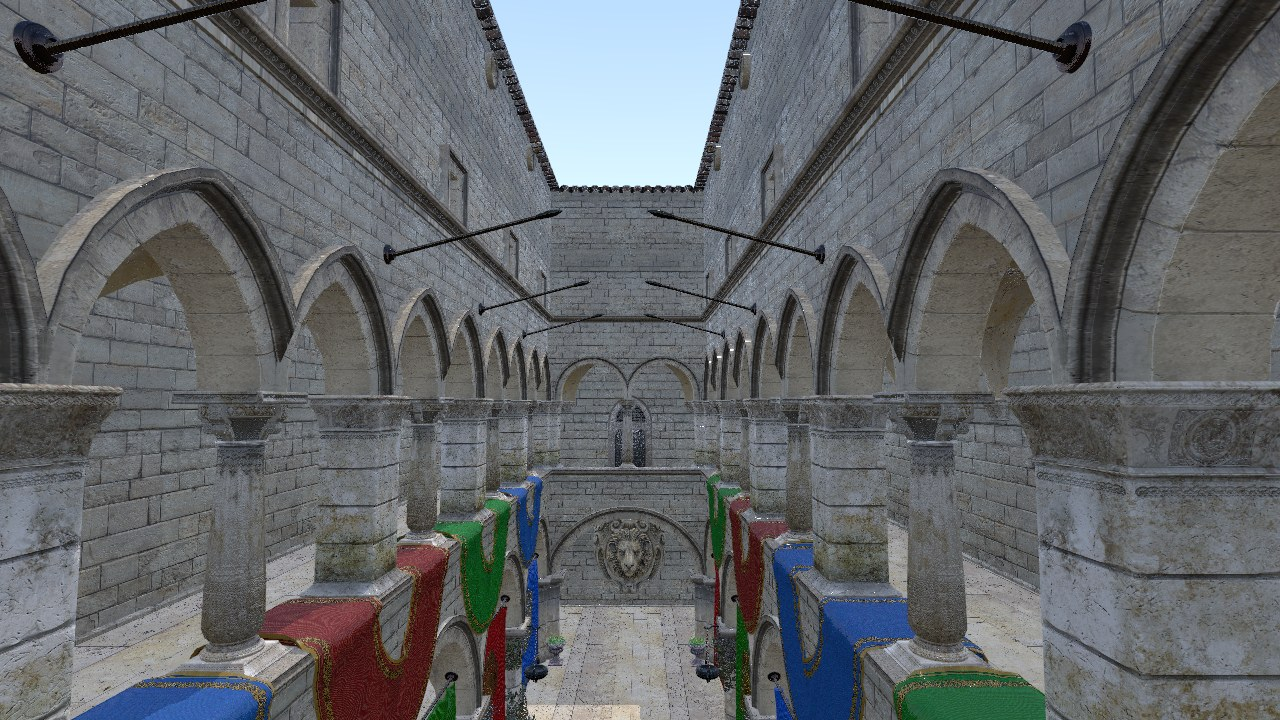
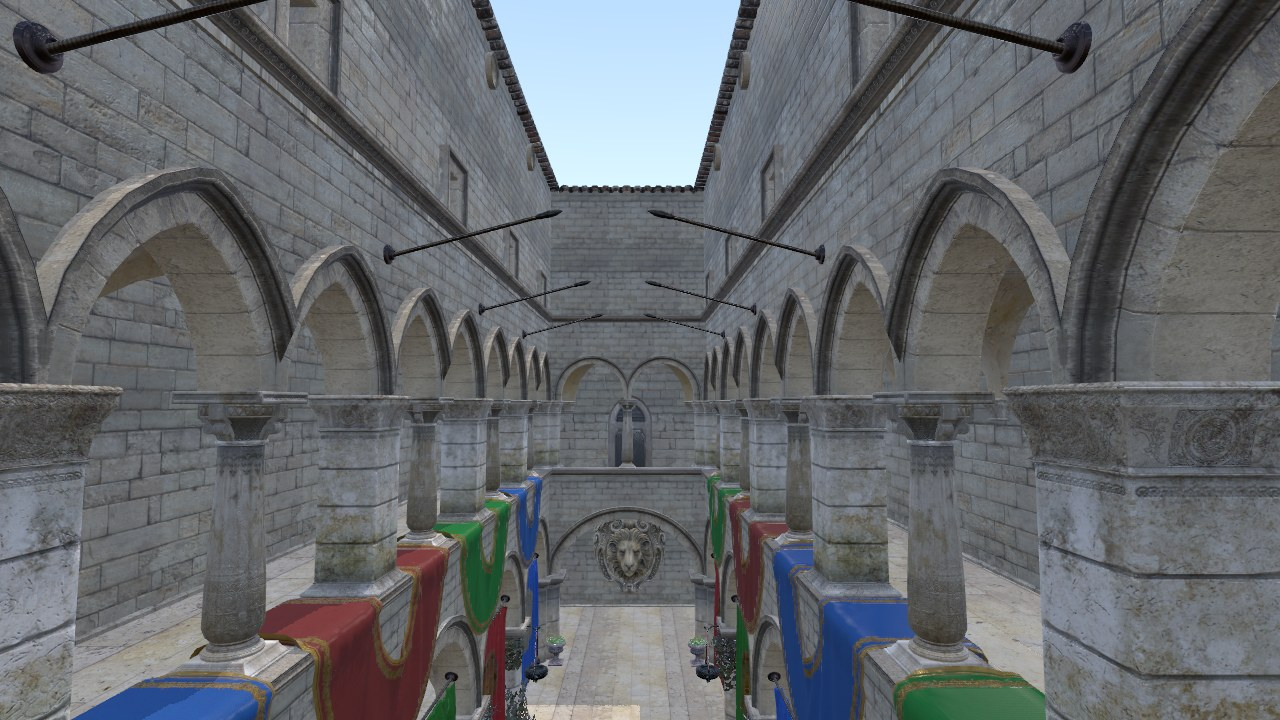
Give the textures a mip chain, and let the sampler use it
The sampler said mipmapMode NEAREST with a comment reading "no mips to
choose from", and it was right: every loaded texture had one level. Sponza's
1024 textures were sampled at level 0 however small they were on screen.

Vulkan has no glGenerateMipmap, so the chain is built on upload: level i is
a linear blit of level i - 1. Levels are transitioned one at a time, because
a single transition of the whole image names every level and then nothing
stands between it and the blit that writes one -- the synchronization
validation layer reported exactly that hazard.

Anisotropy comes with it, since it has nothing to choose from without a
chain.

Measured on an RX 6800S at 1280x720, faster as well as steadier:

  forward    scene    3.431 -> 2.077 ms    total 6.639 -> 5.328
  deferred   geometry 2.569 -> 0.849 ms    total 6.373 -> 4.964

diff --git a/Source/Programs/sandbox/Vulkan/Texture.cpp b/Source/Programs/sandbox/Vulkan/Texture.cpp
@@ -64,14 +64,43 @@ bool CreateTextureFromPixels(const VulkanDevice& dev, const Commands& commands,
     }
     std::memcpy(staging.mapped, pixels, size);
 
+    // What a mip chain needs of the caller, asked before anything is created. Both are
+    // the caller's declaration rather than something to work out here: mipLevels says
+    // there is a chain, and the usage says the image may be read from while it is built.
+    if (desc.mipLevels > 1) {
+        if ((desc.usage & VK_IMAGE_USAGE_TRANSFER_SRC_BIT) == 0) {
+            LOG("[vk] %u mip levels asked for without TRANSFER_SRC to build them with\n", desc.mipLevels);
+            return false;
+        }
+
+        // Each level is a filtered copy of the one above it, so the format has to
+        // support being filtered. A format that cannot is refused rather than silently
+        // given a nearest-filtered chain, which would look like a bad texture.
+        VkFormatProperties props{};
+        dev.inst->table.vkGetPhysicalDeviceFormatProperties(dev.gpu, desc.format, &props);
+        if ((props.optimalTilingFeatures
+                 & VK_FORMAT_FEATURE_SAMPLED_IMAGE_FILTER_LINEAR_BIT) == 0) {
+            LOG("[vk] format %d cannot be linearly filtered, so no mip chain\n",
+                static_cast<int>(desc.format));
+            return false;
+        }
+    }
+
     if (!CreateTexture(dev, desc, out)) { return false; }
 
     VkCommandBuffer cmd = BeginOneShot(dev, commands);
     if (cmd == VK_NULL_HANDLE) { return false; }
 
-    // srcStage is TOP_OF_PIPE because there is nothing to wait for: this image was
-    // just created and nobody has touched it.
-    RecordLayoutTransition(dev.table, cmd, out->image.handle, WholeImage(VK_IMAGE_ASPECT_COLOR_BIT),
+    // Level 0 only. Every level below is moved to a writable layout right before it is
+    // written, which is what keeps two writes to the same level ordered -- a single
+    // transition of the whole image at the start names every level and then nothing
+    // stands between it and the blit that writes level i. The synchronization
+    // validation layer reports that as a write-after-write hazard, correctly.
+    //
+    // srcStage is TOP_OF_PIPE because there is nothing to wait for: this image was just
+    // created and nobody has touched it.
+    RecordLayoutTransition(dev.table, cmd, out->image.handle,
+                           OneLayer(VK_IMAGE_ASPECT_COLOR_BIT, 0, 0),
                            VK_PIPELINE_STAGE_2_TOP_OF_PIPE_BIT, 0,
                            VK_PIPELINE_STAGE_2_COPY_BIT,
                            VK_ACCESS_2_TRANSFER_WRITE_BIT,
@@ -87,10 +116,74 @@ bool CreateTextureFromPixels(const VulkanDevice& dev, const Commands& commands,
     dev.table.vkCmdCopyBufferToImage(cmd, staging.handle, out->image.handle,
                                      VK_IMAGE_LAYOUT_TRANSFER_DST_OPTIMAL, 1, &region);
 
+    // The chain. Vulkan has no glGenerateMipmap: level i is a filtered copy of level
+    // i - 1, so each step moves the source to a readable layout, opens the destination,
+    // and blits between them.
+    int32_t width = static_cast<int32_t>(desc.extent.width);
+    int32_t height = static_cast<int32_t>(desc.extent.height);
+    for (uint32_t level = 1; level < desc.mipLevels; ++level) {
+        // The level just written becomes the source. Its write was the buffer copy for
+        // level 0 and a blit for every level after that.
+        RecordLayoutTransition(dev.table, cmd, out->image.handle,
+                               OneLayer(VK_IMAGE_ASPECT_COLOR_BIT, 0, level - 1),
+                               level == 1 ? VK_PIPELINE_STAGE_2_COPY_BIT
+                                          : VK_PIPELINE_STAGE_2_BLIT_BIT,
+                               VK_ACCESS_2_TRANSFER_WRITE_BIT,
+                               VK_PIPELINE_STAGE_2_BLIT_BIT,
+                               VK_ACCESS_2_TRANSFER_READ_BIT,
+                               VK_IMAGE_LAYOUT_TRANSFER_DST_OPTIMAL,
+                               VK_IMAGE_LAYOUT_TRANSFER_SRC_OPTIMAL);
+
+        // And this level becomes the destination. From UNDEFINED because nothing has
+        // ever been in it, which is also why there is no earlier write to make visible.
+        RecordLayoutTransition(dev.table, cmd, out->image.handle,
+                               OneLayer(VK_IMAGE_ASPECT_COLOR_BIT, 0, level),
+                               VK_PIPELINE_STAGE_2_BLIT_BIT, 0,
+                               VK_PIPELINE_STAGE_2_BLIT_BIT,
+                               VK_ACCESS_2_TRANSFER_WRITE_BIT,
+                               VK_IMAGE_LAYOUT_UNDEFINED,
+                               VK_IMAGE_LAYOUT_TRANSFER_DST_OPTIMAL);
+
+        // Halved, and never below one: a 1024 x 16 image reaches 1 in one direction
+        // long before the other, and the levels after that are one texel tall.
+        const int32_t nextWidth = width > 1 ? width / 2 : 1;
+        const int32_t nextHeight = height > 1 ? height / 2 : 1;
+
+        VkImageBlit blit{};
+        blit.srcSubresource = {VK_IMAGE_ASPECT_COLOR_BIT, level - 1, 0, 1};
+        blit.srcOffsets[1] = VkOffset3D{width, height, 1};
+        blit.dstSubresource = {VK_IMAGE_ASPECT_COLOR_BIT, level, 0, 1};
+        blit.dstOffsets[1] = VkOffset3D{nextWidth, nextHeight, 1};
+        dev.table.vkCmdBlitImage(cmd, out->image.handle,
+                                 VK_IMAGE_LAYOUT_TRANSFER_SRC_OPTIMAL,
+                                 out->image.handle,
+                                 VK_IMAGE_LAYOUT_TRANSFER_DST_OPTIMAL,
+                                 1, &blit, VK_FILTER_LINEAR);
+        width = nextWidth;
+        height = nextHeight;
+    }
+
+    // Two transitions where there is a chain, because the levels are not in the same
+    // layout: every level but the last was read from to make the next, and the last was
+    // only written.
+    if (desc.mipLevels > 1) {
+        const VkImageSubresourceRange read{VK_IMAGE_ASPECT_COLOR_BIT, 0,
+                                           desc.mipLevels - 1, 0, 1};
+        RecordLayoutTransition(dev.table, cmd, out->image.handle, read,
+                               VK_PIPELINE_STAGE_2_BLIT_BIT,
+                               VK_ACCESS_2_TRANSFER_READ_BIT,
+                               VK_PIPELINE_STAGE_2_FRAGMENT_SHADER_BIT,
+                               VK_ACCESS_2_SHADER_SAMPLED_READ_BIT,
+                               VK_IMAGE_LAYOUT_TRANSFER_SRC_OPTIMAL,
+                               VK_IMAGE_LAYOUT_SHADER_READ_ONLY_OPTIMAL);
+    }
+
     // dstStage is FRAGMENT_SHADER because that is the only place we read it. A vertex
     // shader sampling textures would widen this.
-    RecordLayoutTransition(dev.table, cmd, out->image.handle, WholeImage(VK_IMAGE_ASPECT_COLOR_BIT),
-                           VK_PIPELINE_STAGE_2_COPY_BIT,
+    RecordLayoutTransition(dev.table, cmd, out->image.handle,
+                           OneLayer(VK_IMAGE_ASPECT_COLOR_BIT, 0, desc.mipLevels - 1),
+                           desc.mipLevels > 1 ? VK_PIPELINE_STAGE_2_BLIT_BIT
+                                              : VK_PIPELINE_STAGE_2_COPY_BIT,
                            VK_ACCESS_2_TRANSFER_WRITE_BIT,
                            VK_PIPELINE_STAGE_2_FRAGMENT_SHADER_BIT,
                            VK_ACCESS_2_SHADER_SAMPLED_READ_BIT,

diff --git a/Source/Programs/sandbox/Vulkan/Descriptors.cpp b/Source/Programs/sandbox/Vulkan/Descriptors.cpp
@@ -74,7 +74,24 @@ bool CreateDescriptors(const VulkanDevice& dev,
     samplerInfo.addressModeU = VK_SAMPLER_ADDRESS_MODE_REPEAT;
     samplerInfo.addressModeV = VK_SAMPLER_ADDRESS_MODE_REPEAT;
     samplerInfo.addressModeW = VK_SAMPLER_ADDRESS_MODE_REPEAT;
-    samplerInfo.mipmapMode = VK_SAMPLER_MIPMAP_MODE_NEAREST;   // no mips to choose from
+    // Between levels as well as within one. NEAREST here snaps from one level to the
+    // next, and the seam moves across the floor as the camera does.
+    samplerInfo.mipmapMode = VK_SAMPLER_MIPMAP_MODE_LINEAR;
+
+    // Every level a texture has. 0 would clamp sampling to level 0 and undo the chain.
+    samplerInfo.maxLod = VK_LOD_CLAMP_NONE;
+
+    // How many samples along the long axis of the footprint. A level is chosen from the
+    // larger of the two screen derivatives, so a surface seen at a grazing angle gets a
+    // level that is right for the long direction and too blurry for the short one;
+    // taking several samples along that axis is what recovers it.
+    //
+    // The device's own ceiling, not a number we picked -- 16 is what desktop hardware
+    // reports and asking for more is a validation error.
+    VkPhysicalDeviceProperties props{};
+    dev.inst->table.vkGetPhysicalDeviceProperties(dev.gpu, &props);
+    samplerInfo.anisotropyEnable = VK_TRUE;
+    samplerInfo.maxAnisotropy = props.limits.maxSamplerAnisotropy;
     if (dev.table.vkCreateSampler(dev.handle, &samplerInfo, nullptr, &out->sampler)
             != VK_SUCCESS) {
         LOG("[vk] vkCreateSampler failed\n");

diff --git a/Source/Programs/sandbox/main.cpp b/Source/Programs/sandbox/main.cpp
@@ -122,9 +122,14 @@ static bool LoadTextureFile(const VulkanDevice& dev, const Commands& commands,
         return false;
     }
 
-    const TextureDesc desc{{static_cast<uint32_t>(width), static_cast<uint32_t>(height)},
-                           format, VK_SAMPLE_COUNT_1_BIT,
-                           VK_IMAGE_USAGE_TRANSFER_DST_BIT | VK_IMAGE_USAGE_SAMPLED_BIT};
+    // A full chain, and TRANSFER_SRC because building it reads level i to write level
+    // i + 1. Declared here rather than worked out inside the upload: how many levels an
+    // image has is a property of the image, and a 1 x 1 stand-in asks for one.
+    TextureDesc desc{{static_cast<uint32_t>(width), static_cast<uint32_t>(height)},
+                     format, VK_SAMPLE_COUNT_1_BIT,
+                     VK_IMAGE_USAGE_TRANSFER_DST_BIT | VK_IMAGE_USAGE_TRANSFER_SRC_BIT
+                         | VK_IMAGE_USAGE_SAMPLED_BIT};
+    desc.mipLevels = MipLevelsFor(desc.extent);
     const size_t byteCount = static_cast<size_t>(width) * static_cast<size_t>(height) * 4;
     const bool uploaded = CreateTextureFromPixels(dev, commands, desc, pixels,
                                                   byteCount, out);

diff --git a/Source/Programs/sandbox/Vulkan/Device.cpp b/Source/Programs/sandbox/Vulkan/Device.cpp
@@ -109,11 +109,15 @@ PhysicalDeviceSelection PickPhysicalDevice(const VulkanInstance& inst,
                 && features2.features.fillModeNonSolid != VK_TRUE) {
             continue;
         }
+        if (required10.samplerAnisotropy == VK_TRUE
+                && features2.features.samplerAnisotropy != VK_TRUE) {
+            continue;
+        }
         if (features13.dynamicRendering != VK_TRUE || features13.synchronization2 != VK_TRUE) {
             continue;
         }
-        // features2.features goes unread: no core 1.0 feature is required. Adding one
-        // means editing here and Core.h both.
+        // Every core 1.0 feature required is checked above by name. Adding one means
+        // editing here and Core.h both.
 
         // (c) the swapchain extension
         uint32_t extCount = 0;

diff --git a/Source/Programs/sandbox/Vulkan/Image.h b/Source/Programs/sandbox/Vulkan/Image.h
@@ -140,6 +140,18 @@ struct TextureDesc {
     uint32_t arrayLayers = 1;
 };
 
+// Output: how many mip levels a texture of this size can have
+//
+// Halving the larger side until it reaches 1, counting the original. A 1024 x 1024
+// image has 11 levels; a 1 x 1 image has one, which is why the stand-in textures need no
+// special case.
+inline uint32_t MipLevelsFor(VkExtent2D extent) noexcept {
+    uint32_t side = extent.width > extent.height ? extent.width : extent.height;
+    uint32_t levels = 1;
+    while (side > 1) { side /= 2; ++levels; }
+    return levels;
+}
+
 // Output: how many array layers this texture has
 //
 // Six for a cube because that is what a cube is, one for a plain 2D, and whatever was

diff --git a/Source/Programs/sandbox/Vulkan/Core.h b/Source/Programs/sandbox/Vulkan/Core.h
@@ -63,5 +63,11 @@ inline VkPhysicalDeviceVulkan13Features RequiredFeatures13() noexcept {
 inline VkPhysicalDeviceFeatures RequiredFeatures10() noexcept {
     VkPhysicalDeviceFeatures features{};
     features.fillModeNonSolid = VK_TRUE;   // POLYGON_MODE_LINE
+
+    // Anisotropic filtering. A mip level is chosen from the larger of the two screen
+    // derivatives, which over-blurs a surface seen at a grazing angle -- the footprint
+    // is long in one direction and short in the other, and one level cannot be right
+    // for both. Anisotropy takes several samples along the long axis instead.
+    features.samplerAnisotropy = VK_TRUE;
     return features;
 }

diff --git a/README.md b/README.md
@@ -137,6 +137,21 @@ uniform contents, dynamic state commands, and the one switch that selects a diff
 compiled pipeline. The right-hand window reads back the descriptor pool, the reflected
 shader interface and per-frame draw statistics.
 
+- **Mip chain and anisotropy.** Every loaded texture is built with a full chain, blit by
+  blit, and the sampler filters between levels with anisotropy at the device's limit.
+  Sampling a minified 1024² texture at level 0 speckles the distant stonework and misses
+  the texture cache on nearly every tap, so this is faster as well as steadier:
+
+  | | before | after |
+  |---|---|---|
+  | forward, scene pass | 3.431 ms | 2.077 ms |
+  | deferred, geometry pass | 2.569 ms | 0.849 ms |
+  | frame total, forward | 6.639 ms | 5.328 ms |
+
+  ![without mipmaps](docs/images/mips-off.jpg) ![with mipmaps](docs/images/mips-on.jpg)
+
+  *The same distant arcade, sampled at level 0 and through the chain.*
+
 - **GPU time per pass.** Timestamps written by the device, one query pool per frame in
   flight, read after that slot's fence. Both stamps are taken at `ALL_COMMANDS` so an
   interval covers one pass rather than the tail of the one before it, and a pass that did
@@ -145,8 +160,8 @@ shader interface and per-frame draw statistics.
 
   | | shadow | sky | middle | post | total |
   |---|---|---|---|---|---|
-  | forward | 2.807 | 0.344 | scene 3.431 | 0.057 | 6.639 ms |
-  | deferred | 2.801 | 0.328 | geometry 2.569 + lighting 0.615 | 0.059 | 6.373 ms |
+  | forward | 2.851 | 0.342 | scene 2.077 | 0.057 | 5.328 ms |
+  | deferred | 2.808 | 0.331 | geometry 0.849 + lighting 0.917 | 0.059 | 4.964 ms |
 
 - **Frustum culling.** Six planes taken from `proj * view`, tested against each
   primitive's glTF bounds. It removes 34 of the 103 draws from this viewpoint and leaves
